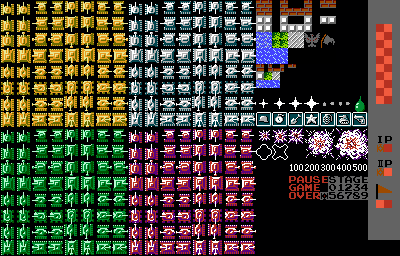
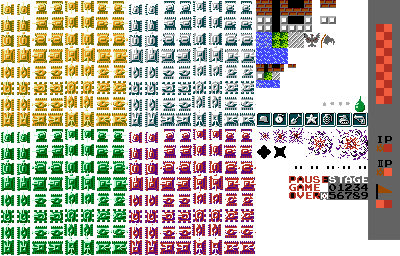
colliding bug fixed

diff --git a/toasts/hackathon/src/levels/levelCombiner.ts b/toasts/hackathon/src/levels/levelCombiner.ts
@@ -23,7 +23,7 @@ const dy = {
 
 export class LevelCombiner {
     private levels: (Level | null)[][];
-    private game: Game;
+    private gameState: Game;
     private currentLevelX: number;
     private currentLevelY: number;
 
@@ -31,13 +31,13 @@ export class LevelCombiner {
     private winLevelY: number = 0;
     private winDirection: number = 1;
 
-    constructor(game: Game) {
-        this.game = game;
+    constructor(gameState: Game) {
+        this.gameState = gameState;
 
         this.levels = [
             [null, null, null, null, null],
             [null, null, null, null, null],
-            [null, new SimpleLevel(game, 'Additional'), new SimpleLevel(game, 'Main'), null, null],
+            [null, new SimpleLevel(gameState, 'Additional'), new SimpleLevel(gameState, 'Main'), null, null],
             [null, null, null, null, null],
             [null, null, null, null, null]
         ];
@@ -47,7 +47,11 @@ export class LevelCombiner {
         (window as any).levelCombiner = this;
 
         this.chooseWinPlace();
-        this.currentLevel().start();
+        this.currentLevel.start();
+    }
+
+    public debug(): void {
+        this.currentLevel.debug();
     }
 
     private chooseWinPlace(): void {
@@ -59,7 +63,7 @@ export class LevelCombiner {
             }
     }
 
-    public currentLevel(): Level {
+    public get currentLevel(): Level {
         return this.levels[this.currentLevelX][this.currentLevelY];
     }
 
@@ -68,8 +72,8 @@ export class LevelCombiner {
     }
 
     private checkTankPosition(): void {
-        const xCoord = this.currentLevel().getTankPosition().x / 16;
-        const yCoord = this.currentLevel().getTankPosition().y / 16;
+        const xCoord = this.currentLevel.getTankPosition().x / 16;
+        const yCoord = this.currentLevel.getTankPosition().y / 16;
 
         if (15 <= xCoord && xCoord <= 16 && 0 <= yCoord && yCoord <= 1) {
             this.moveLevel(Config.DIRECTIONS.TOP);
@@ -89,13 +93,13 @@ export class LevelCombiner {
     }
 
     private finish(): void {
-        this.game.state.start('ChooseName');
+        this.gameState.state.start('ChooseName');
         Sound.play();
     }
 
     private moveLevel(direction: number): void {
-        const xCoordPrecise = this.currentLevel().getTankPosition().x;
-        const yCoordPrecise = this.currentLevel().getTankPosition().y;
+        const xCoordPrecise = this.currentLevel.getTankPosition().x;
+        const yCoordPrecise = this.currentLevel.getTankPosition().y;
 
         if (this.currentLevelX === this.winLevelX && this.currentLevelY === this.winLevelY
             && this.winDirection === direction) {
@@ -105,7 +109,7 @@ export class LevelCombiner {
         const nextLevelX = this.currentLevelX + dx[direction];
         const nextLevelY = this.currentLevelY + dy[direction];
         if (this.levels[nextLevelX][nextLevelY]) {
-            this.currentLevel().stop();
+            this.currentLevel.stop();
             this.currentLevelX = nextLevelX;
             this.currentLevelY = nextLevelY;
             let nextXCoordPrecise, nextYCoordPrecise;
@@ -117,7 +121,7 @@ export class LevelCombiner {
             //     nextXCoordPrecise = xCoordPrecise;
             //     nextYCoordPrecise = 486 - yCoordPrecise;
             // }
-            this.currentLevel().start();
+            this.currentLevel.start();
         }
     }
 }

diff --git a/toasts/hackathon/src/levels/level.ts b/toasts/hackathon/src/levels/level.ts
@@ -8,7 +8,7 @@ import {Config} from '../config';
 const { defaultStartCoordX, defaultStartCoordY } = Config;
 
 export class Level {
-    private game: Game;
+    private gameState: Game;
     private coordX: number;
     private coordY: number;
     private tank: Phaser.Sprite;
@@ -17,27 +17,33 @@ export class Level {
     protected tilemap: string;
     protected levelName: string;
 
-    constructor(game: Game) {
-        this.game = game;
+    constructor(gameState: Game) {
+        this.gameState = gameState;
     }
 
     public start(coordX: number = defaultStartCoordX, coordY: number = defaultStartCoordY) {
         this.coordX = coordX;
         this.coordY = coordY;
 
-        this.map = this.game.add.tilemap(this.tilemap);
+        this.map = this.gameState.add.tilemap(this.tilemap);
         this.map.addTilesetImage('battlecity', 'tiles16x16');
         // To enable collision between our tank and walls/city
         // we have to enable collision for tiles ( now we will just enable collision for all tiles of our tile set ).
-        this.map.setCollisionBetween(1, 10000);
-        const layer = this.map.createLayer('Ground');
-        layer.resizeWorld();
 
-        this.tank = this.game.add.sprite(coordX * 16, coordY * 16, 'tanks');
-        this.game.physics.enable(this.tank);
+        this.layer = this.map.createLayer('Ground');
+        this.layer.resizeWorld();
+
+        this.map.setCollisionBetween(1, 10000);
+        this.layer.debug = true;
+
+        this.tank = this.gameState.add.sprite(coordX * 16, coordY * 16, 'tanks');
+        this.tank.smoothed = false;
+        this.gameState.physics.enable(this.tank);
         this.tank.body.collideWorldBounds = true;
         // enable physics for our player sprite so we could move it etc
-        this.game.physics.arcade.enable(this.tank);
+        this.gameState.physics.arcade.enable(this.tank);
+        this.tank.body.width = 15;
+        this.tank.body.height = 15;
         // set initial frame for our player sprite
         this.tank.frame = 0;
         // define movement animations for our player - up, down etc, provide sprite numbers, timing,
@@ -52,10 +58,15 @@ export class Level {
         this.tank.destroy(true);
     }
 
-    public update(cursors: Phaser.CursorKeys): void {
-        this.game.physics.arcade.collide(this.tank, this.layer);
+    public debug(): void {
+        this.gameState.game.debug.bodyInfo(this.tank, 32, 32);
+        this.gameState.game.debug.body(this.tank);
+    }
 
-        this.game.input.update();
+    public update(cursors: Phaser.CursorKeys): void {
+        this.gameState.physics.arcade.collide(this.tank, this.layer);
+
+        this.gameState.input.update();
         if (cursors.down.isDown) {
             this.moveDown();
         } else

diff --git a/toasts/hackathon/src/states/game.ts b/toasts/hackathon/src/states/game.ts
@@ -25,15 +25,19 @@ export class Game extends Phaser.State {
         this.levelCombiner = new LevelCombiner(this);
         this.cursors = this.game.input.keyboard.createCursorKeys();
 
-        this.levelName = this.game.add.bitmapText(550, 450, 'font', this.levelCombiner.currentLevel().getLevelName(), 25);
+        this.levelName = this.game.add.bitmapText(550, 450, 'font', this.levelCombiner.currentLevel.getLevelName(), 25);
         this.deaths = this.game.add.bitmapText(550, 425, 'font', getDeathsText(), 25);
     }
 
     public update(): void {
         this.levelCombiner.update();
-        this.levelCombiner.currentLevel().update(this.cursors);
+        this.levelCombiner.currentLevel.update(this.cursors);
 
-        this.levelName.text = this.levelCombiner.currentLevel().getLevelName();
+        this.levelName.text = this.levelCombiner.currentLevel.getLevelName();
         this.deaths.text = getDeathsText();
+    }
+
+    public render(): void {
+        this.levelCombiner.debug();
     }
 }
